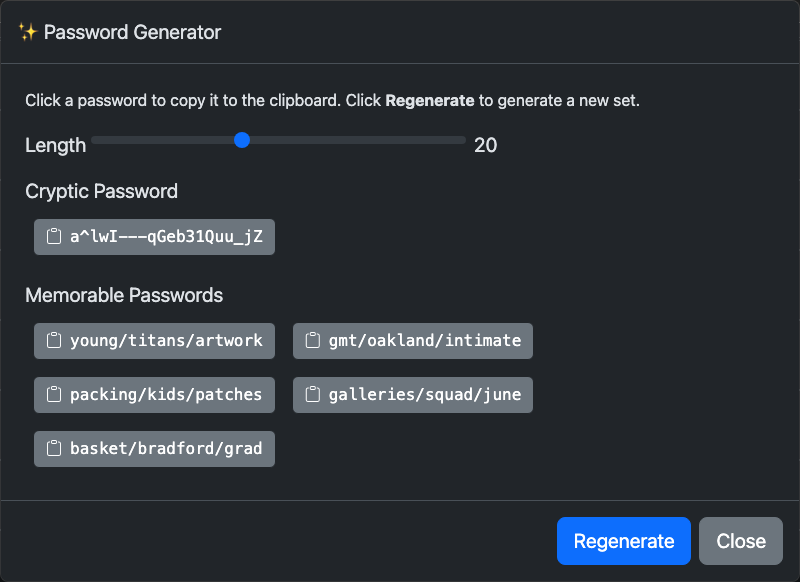
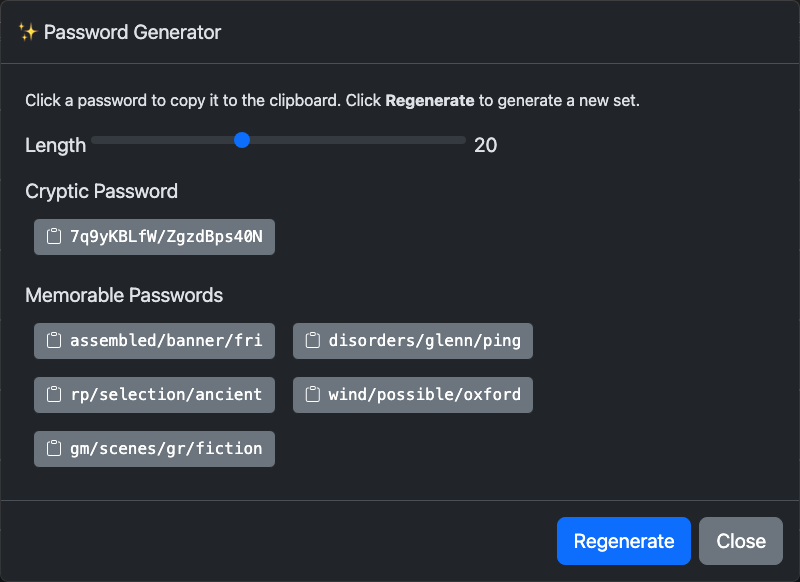
phase 3 work for the automated screenshots is complete

diff --git a/tests/screenshots.py b/tests/screenshots.py
@@ -562,8 +562,15 @@ def shot_file_load(driver):
     return modal_content(dlg)
 
 
-def shot_password_generator(driver):
-    '''The standalone password generator, opened from the footer.'''
+def shot_password_generator_standalone(driver):
+    '''The standalone password generator, opened from the footer Pwd Gen button.
+
+    NOT pam-password-generator.png. That file documents the *record field*
+    generator — the gear icon on a password field inside a record — which is a
+    different dialogue reached a different way, and belongs in the
+    record-interaction phase. The standalone generator is described in the
+    README prose but has never had an image, so this one is new.
+    '''
     button = driver.find_element(By.ID, 'x-generate-password')
     scroll_and_click(driver, button)
     time.sleep(SETTLE)
@@ -625,7 +632,7 @@ SHOTS = [
     ('pam-about-custom.png', shot_about_custom, WINDOW),
     ('pam-file-save.png', shot_file_save, WINDOW),
     ('pam-file-load.png', shot_file_load, WINDOW),
-    ('pam-password-generator.png', shot_password_generator, WINDOW),
+    ('pam-password-generator-standalone.png', shot_password_generator_standalone, WINDOW),
     ('pam-prefs-enable-printing-check.png', shot_prefs_printing_check, WINDOW),
     ('pam-prefs-enable-printing-menu.png', shot_menu_with_print, WINDOW),
 ]

diff --git a/PROPOSAL.md b/PROPOSAL.md
@@ -181,10 +181,14 @@ a YouTube favicon in a captured bookmarks bar, in one case.
    message, so `statusMsgDurationMS` is raised during capture. The Layout
    section of the README was rewritten to name each region in prose, and
    gained a table of the four toolbar warning badges.
-3. **Written, not yet verified — 6 shots.** Dialogues needing preference or
-   state setup: `pam-about-custom`, `pam-file-load`, `pam-file-save`,
-   `pam-password-generator`, `pam-prefs-enable-printing-check`,
+3. **Done — 6 shots.** Dialogues needing preference or state setup:
+   `pam-about-custom`, `pam-file-load`, `pam-file-save`,
+   `pam-password-generator-standalone`, `pam-prefs-enable-printing-check`,
    `pam-prefs-enable-printing-menu`.
+
+   The phase originally listed `pam-password-generator`, which was a
+   mis-scoping: that image is the *record field* generator, reached from
+   inside a record, so it belongs in phase 4. See below.
 
    Two need more than opening a dialogue. `customAboutInfo` is read by
    `mkAbout()` at build time and `menuAboutDlg()` runs once at startup, so the
@@ -195,7 +199,23 @@ a YouTube favicon in a captured bookmarks bar, in one case.
 
    `pam-prefs-enable-printing-example.png` is deferred to a later phase: it is
    the printed report, which opens in a separate window.
-4. **Not started.** Record interaction states: `pam-record-expanded*`,
+
+   `pam-password-generator.png` was captured wrongly at first. PAM has two
+   generators, and that file documents the **record field** one — the gear
+   icon on a password field inside a record — not the standalone footer
+   dialogue. The standalone capture is now
+   `pam-password-generator-standalone.png`, an image the README never had, and
+   the record-field generator moves to phase 4 with the other record
+   interactions. The mistake overwrote the original file, which had to be
+   restored with `git checkout`.
+
+   Worth noting the guards did not catch this: the element was present, the
+   right size and not truncated. It was simply the wrong dialogue. Nothing
+   mechanical distinguishes "captured a dialogue" from "captured the dialogue
+   the README is talking about".
+4. **Not started.** Record interaction states: `pam-password-generator` and
+   `pam-password-no-generator` (both the record field generator),
+   `pam-record-expanded*`,
    `pam-password-hidden` / `-shown`, `pam-google-account`, `pam-google-record`.
    Four of these are annotated; the "First field (url) / Second field (login) /
    Third field (password)" labels become prose describing the expanded record's

diff --git a/README.md b/README.md
@@ -978,6 +978,8 @@ button in the toolbar footer. Use this when you need a strong password
 for a new account before you have created a PAM record for it. Click
 any generated password to copy it to the clipboard.
 
+<img src="www/help/pam-password-generator-standalone.png" width="400" alt="standalone password generator">
+
 Both generators produce the same set of options: one cryptic password
 and five memorable passwords.
 
